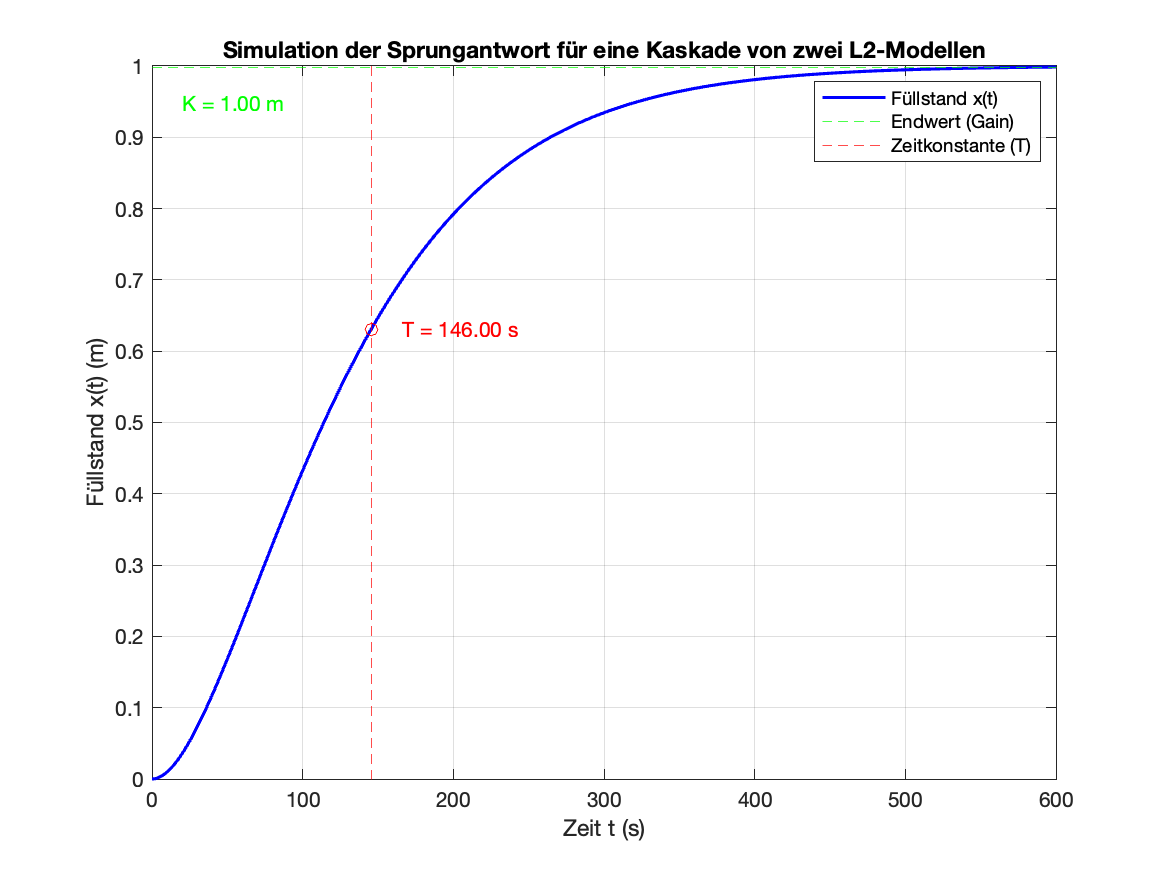
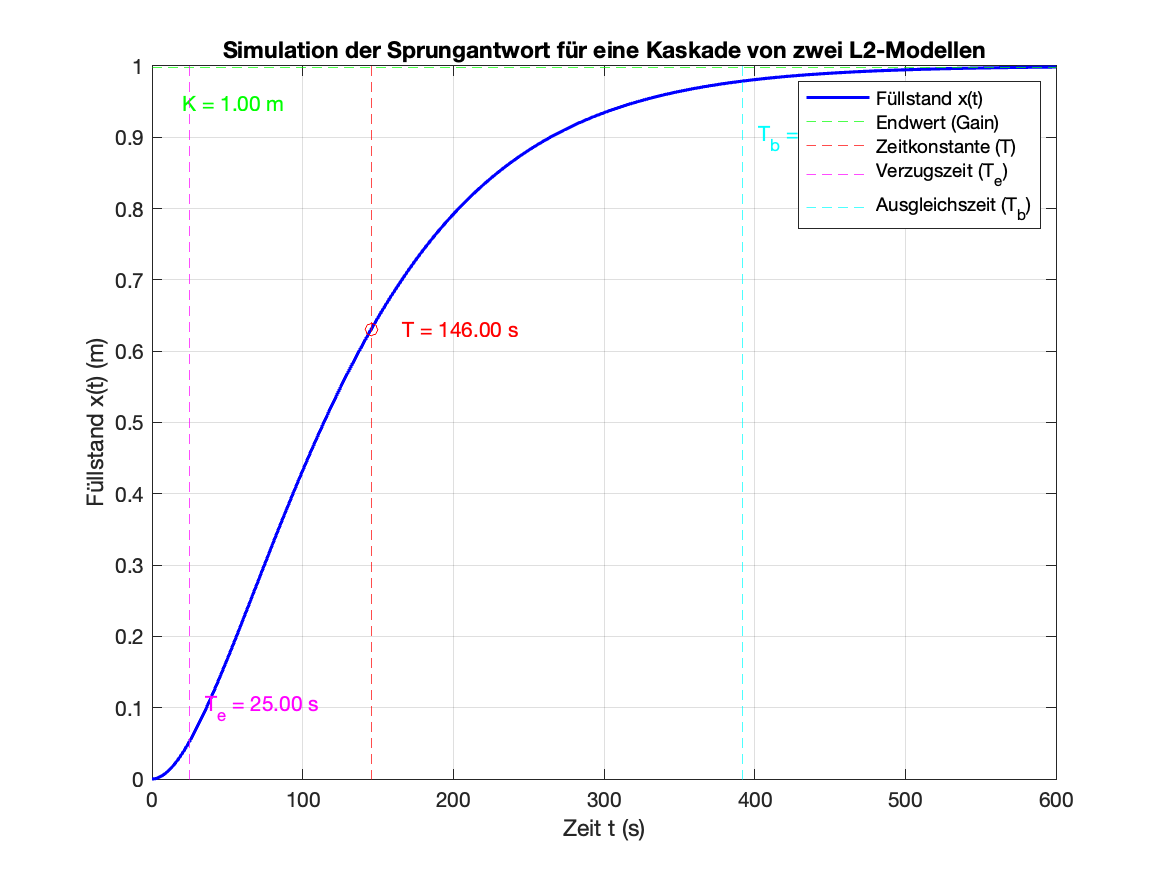
changed L4

diff --git a/L4.m b/L4.m
@@ -1,9 +1,9 @@
 % Parameter für das L2-Modell
-rho = 1000; % Dichte der Flüssigkeit in kg/Kubikmeter
-A = 1; % Grundfläche in Quadratmeter
-a = 0.003; % Querschnitt des Auslaufs in Quadratmeter
-g = 9.81; % Erdbeschleunigung in m/Quadratsekunde
-qzu = 6.0; % Stationärer Zufluss (im Arbeitspunkt) in kg/sec
+rho = 1000; % Dichte der Flüssigkeit in kg/m^3
+A = 1; % Grundfläche in m^2
+a = 0.003; % Querschnitt des Auslaufs in m^2
+g = 9.81; % Erdbeschleunigung in m/s^2
+qzu = 6.0; % Stationärer Zufluss in kg/s
 
 c2 = 1 / (rho * A);
 c3 = (a * a * rho * g) / (A * qzu);
@@ -24,29 +24,56 @@ t = 0:1:600; % Zeitvektor von 0 bis 600 Sekunden in Schritten von 1 s
 % Berechnung des Verstärkungsfaktors (Endwert der Sprungantwort)
 steady_state_value = y(end);
 
+% Berechnung der Steigung der Sprungantwort bei t = 0
+initial_slope = (y(2) - y(1)) / (t(2) - t(1));
+
 % Berechnung der Zeitkonstanten (63,2% des Endwerts)
 target_value = 0.632 * steady_state_value;
 T_index = find(y >= target_value, 1); % Index für ersten Punkt bei 63.2% des Endwerts
 T_approx = t(T_index); % Zeitkonstante T
+
+% Berechnung der Verzugszeit (Te) - erste deutliche Abweichung von Null
+Te_index = find(y > 0.05 * steady_state_value, 1);
+Te = t(Te_index);
+
+% Berechnung der klassischen Ausgleichszeit (Tb) - 98% des Endwertes
+Tb_index = find(y >= 0.98 * steady_state_value, 1);
+Tb = t(Tb_index);
+
+% Berechnung der Dämpfung des Systems
+damping_info = damp(G_total);
 
 % Plot erstellen
 figure;
 plot(t, y, 'b-', 'LineWidth', 1.5); % Plot in Blau mit Linienbreite 1.5
 hold on;
 yline(steady_state_value, 'g--'); % Verstärkungsfaktor-Linie
-xline(T_approx, 'r--'); % Zeitkonstanten-Linie
-plot(T_approx, target_value, 'ro'); % Markierung des Punktes bei Zeitkonstanten
+xline(T_approx, 'r--'); % Zeitkonstante-Linie
+xline(Te, 'm--'); % Verzugszeit-Linie
+xline(Tb, 'c--'); % klassische Ausgleichszeit-Linie
 
-% Horizontale Beschriftung des Verstärkungsfaktors und der Zeitkonstanten
+% Markierung des Punktes bei Zeitkonstanten
+plot(T_approx, target_value, 'ro'); 
+
+% Beschriftung der Verstärkungsfaktors und der Zeitkonstanten
 text(T_approx + 20, target_value, ['T = ', num2str(T_approx, '%.2f'), ' s'], 'Color', 'red', 'HorizontalAlignment', 'left');
 text(20, steady_state_value - 0.05, ['K = ', num2str(steady_state_value, '%.2f'), ' m'], 'Color', 'green', 'HorizontalAlignment', 'left');
+text(Te + 10, 0.1 * steady_state_value, ['T_e = ', num2str(Te, '%.2f'), ' s'], 'Color', 'magenta', 'HorizontalAlignment', 'left');
+text(Tb + 10, 0.9 * steady_state_value, ['T_b = ', num2str(Tb, '%.2f'), ' s'], 'Color', 'cyan', 'HorizontalAlignment', 'left');
 
 % Achsenbeschriftung und Titel
 grid on;
 xlabel('Zeit t (s)');
 ylabel('Füllstand x(t) (m)');
 title('Simulation der Sprungantwort für eine Kaskade von zwei L2-Modellen');
-legend('Füllstand x(t)', 'Endwert (Gain)', 'Zeitkonstante (T)');
+legend('Füllstand x(t)', 'Endwert (Gain)', 'Zeitkonstante (T)', 'Verzugszeit (T_e)', 'Ausgleichszeit (T_b)');
+
+% Ergebnisse anzeigen
+disp(['Steigung der Sprungantwort bei t=0: ', num2str(initial_slope, '%.4f'), ' m/s']);
+disp(['Verzugszeit Te: ', num2str(Te, '%.2f'), ' s']);
+disp(['Ausgleichszeit Tb: ', num2str(Tb, '%.2f'), ' s']);
+disp('Dämpfungswerte:');
+disp(damping_info);
 
 % Plot speichern
-saveas(gcf, 'simulation_ergebnis_L4.png'); % Speichern des Plots als PNG-Datei
+saveas(gcf, 'simulation_ergebnis_L4.png');
